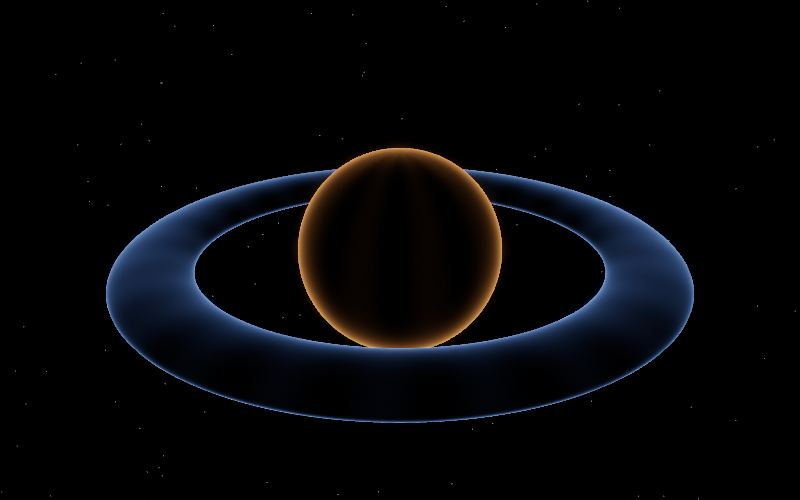
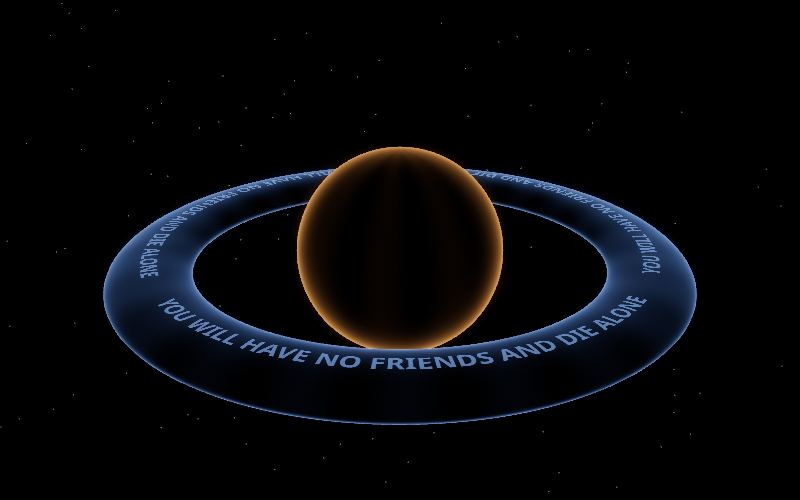
Dark Saturn: the ring says YOU WILL HAVE NO FRIENDS AND DIE ALONE
Text drawn on a canvas texture, painted round the ring's top and bottom faces by its shader,
carried round at the ring's angular velocity; strip width follows the tube so letters keep shape.

diff --git a/src/sketches/darkSaturn.js b/src/sketches/darkSaturn.js
@@ -53,6 +53,7 @@ const KEYS = [
   { k: [0.9, 0.5, 0.39121], name: 'C', line: 'The hole spins backwards just enough to stand still. Exhausting.' },
   { k: [0.95, 0.7, 0.69], name: 'D', line: 'Hole spinning against the ring. Still in balance. Still dark.' },
 ];
+const RING_TEXT = 'YOU WILL HAVE NO FRIENDS AND DIE ALONE';   // what the ring says (owner's request, 2026-11-21)
 const MOVE = 4, HOLD = 8, LOOP = KEYS.length * (MOVE + HOLD);
 
 const HORIZON_VERT = /* glsl */ `
@@ -65,8 +66,9 @@ const HORIZON_VERT = /* glsl */ `
     gl_Position = projectionMatrix * mv;
   }`;
 const HORIZON_FRAG = /* glsl */ `
-  uniform float uTurn, uRing;
+  uniform float uTurn, uRing, uTextH;
   uniform vec3 uRim;
+  uniform sampler2D uText;
   varying vec3 vN, vView, vLocal;
   void main() {
     float f = pow(1.0 - abs(dot(normalize(vN), normalize(vView))), 5.0);   // only the very edge glows
@@ -75,6 +77,14 @@ const HORIZON_FRAG = /* glsl */ `
     float ang = (uRing > 0.5 ? atan(vLocal.y, vLocal.x) : atan(vLocal.z, vLocal.x)) + uTurn;
     float band = 0.5 + 0.5 * cos(ang * (uRing > 0.5 ? 24.0 : 10.0));
     vec3 col = uRim * (f * 1.5 + 0.05 * band * (0.3 + f)) + vec3(0.003);
+    // the ring's message, written round its top and bottom faces and carried round at the ring's own speed
+    if (uRing > 0.5) {
+      float tubeAng = atan(vLocal.z, length(vLocal.xy) - 1.0);          // where on the tube's cross-section
+      float across = abs(abs(tubeAng) - 1.5707963) * sign(length(vLocal.xy) - 1.0);
+      vec2 st = vec2(fract(-ang / 6.2831853), 0.5 - across / uTextH);
+      float ink = (st.y > 0.0 && st.y < 1.0) ? texture2D(uText, st).r : 0.0;
+      col += uRim * ink * 0.55;
+    }
     gl_FragColor = vec4(col, 1.0);
   }`;
 
@@ -123,9 +133,23 @@ export default {
     camera.position.set(0, 2.6, 6.2);
     ctx.controls?.target.set(0, 0, 0);
     ctx.controls?.update();
+    // the ring's message: a strip of text drawn once on a canvas, repeated three times round the ring
+    // see docs/wiki/textures.md and docs/wiki/sketches/darkSaturn.md
+    const cv = document.createElement('canvas');
+    cv.width = 4096; cv.height = 256;
+    const g = cv.getContext('2d');
+    g.fillStyle = '#000'; g.fillRect(0, 0, cv.width, cv.height);
+    g.fillStyle = '#fff'; g.font = 'bold 100px system-ui, sans-serif';
+    const fit = Math.min(1, (0.9 * cv.width / 3) / g.measureText(RING_TEXT).width);   // each copy fills 90% of its third
+    g.font = `bold ${Math.floor(100 * fit)}px system-ui, sans-serif`; g.textAlign = 'center'; g.textBaseline = 'middle';
+    for (let i = 0; i < 3; i++) g.fillText(RING_TEXT, (i + 0.5) * cv.width / 3, cv.height / 2);
+    const text = new THREE.CanvasTexture(cv);
+    text.minFilter = THREE.LinearFilter; text.generateMipmaps = false;   // no mipmaps: the wrap-round seam would show
+    text.colorSpace = THREE.NoColorSpace;
     const mat = (rim, ring) => new THREE.ShaderMaterial({
       vertexShader: HORIZON_VERT, fragmentShader: HORIZON_FRAG,
-      uniforms: { uTurn: { value: 0 }, uRing: { value: ring ? 1 : 0 }, uRim: { value: new THREE.Color(rim) } },
+      uniforms: { uTurn: { value: 0 }, uRing: { value: ring ? 1 : 0 }, uRim: { value: new THREE.Color(rim) },
+        uText: { value: text }, uTextH: { value: 2 } },
     });
     const hole = new THREE.Mesh(new THREE.SphereGeometry(1, 96, 64), mat(0xffb46a, false));
     const ring = new THREE.Mesh(new THREE.TorusGeometry(1, 0.2, 48, 220), mat(0x8fb8ff, true));
@@ -136,7 +160,7 @@ export default {
     for (let i = 0; i < n; i++) { v.randomDirection().multiplyScalar(60 + Math.random() * 40); pos.set([v.x, v.y, v.z], i * 3); }
     const sg = new THREE.BufferGeometry(); sg.setAttribute('position', new THREE.BufferAttribute(pos, 3));
     scene.add(new THREE.Points(sg, new THREE.PointsMaterial({ color: 0x9aa6c8, size: 0.12, sizeAttenuation: true })));
-    return { glow, hole, ring, turnBH: 0, turnBR: 0, player: createSoundPlayer({ volume: 0.35 }) };
+    return { glow, hole, ring, text, turnBH: 0, turnBR: 0, player: createSoundPlayer({ volume: 0.35 }) };
   },
 
   update(ctx, state) {
@@ -155,6 +179,8 @@ export default {
       state.tube = tube;
       state.ring.geometry.dispose();
       state.ring.geometry = new THREE.TorusGeometry(1, tube, 40, 200);
+      // keep the letters the same shape: the text strip spans this much of the tube's cross-section (radians)
+      state.ring.material.uniforms.uTextH.value = (2 * Math.PI / 3) * (256 / (4096 / 3)) / tube;
     }
     // turning: angular velocity in units of 1/√M, slowed so the eye can follow
     const dt = ctx.delta * (ctx.params.speed ?? 1);
@@ -171,6 +197,7 @@ export default {
 
   dispose(ctx, state) {
     state.player.dispose();
+    state.text.dispose();
     state.glow.dispose();
   },
 };

diff --git a/docs/wiki/sketches/darkSaturn.md b/docs/wiki/sketches/darkSaturn.md
@@ -9,7 +9,9 @@ tags: astronomy
 File: `src/sketches/darkSaturn.js` · Mode: 3d · Category: Physics
 
 **What you see:** a dark ball with a glowing orange edge, and around it a dark ring with a glowing blue edge,
-like Saturn drawn in black. Faint bands drift round both, each at its own speed. Every 12 seconds the pair
+like Saturn drawn in black. Written round the ring's top, three times over, glowing faintly blue: "YOU WILL
+HAVE NO FRIENDS AND DIE ALONE" (a joke the owner asked for; the physics doesn't say this). Faint bands drift
+round both, each at its own speed, and the words ride round with the ring. Every 12 seconds the pair
 slides into a different shape: the ring fat or thin, the ball bigger or smaller, the ball's bands drifting
 with the ring, standing still, or going backwards. You can drag to look around. With Sound on, two tones hum,
 one for the ball and one for the ring.
@@ -54,6 +56,9 @@ five-dimensional black hole comes out with the paper's reference area, 2√2.
 - **The picture is a 3D slice and not to exact scale.** A five-dimensional shape can't be drawn exactly. The
   ball's size comes from its area (A = 2π²r³ for a 3-sphere); the ring's radius from the thin-ring estimate R
   ≈ 1/(√2 Ω); its thickness from its area (A ≈ 2πR × 4πr²).
+- The ring's words are drawn once onto a hidden canvas (a blank picture in the page's memory), turned into a
+  [*texture*](../textures.md) (a picture the graphics card can paint onto a surface), and the ring's shader paints it round the
+  ring's top and bottom faces.
 - The horizons are drawn by a [shader](../shaders.md): dark, with a glow where you look along the surface
   edge-on, and bands drifting at each horizon's angular velocity. [Glow](../glow.md) adds the halo.
 
@@ -91,6 +96,28 @@ const OBH = d * s((k2 * k3) / (2 * k1)) * (k3 * (1 - k1) - k1 * (1 - k2) * (1 - 
 Equation 3.21. With c̄₂ = 0 the hole has no spin of its own (`JBH` is 0), but this is not zero: frame
 dragging.
 
+The ring's message, near the top of the file:
+
+```js
+const RING_TEXT = 'YOU WILL HAVE NO FRIENDS AND DIE ALONE';   // what the ring says (owner's request, 2026-11-21)
+```
+
+In `setup`, the words are written three times across a canvas 4,096 dots wide and 256 tall, each copy shrunk
+to fill 90% of its third:
+
+```js
+const fit = Math.min(1, (0.9 * cv.width / 3) / g.measureText(RING_TEXT).width);   // each copy fills 90% of its third
+```
+
+`measureText` asks how wide the words come out at 100-dot letters; `fit` is how much to shrink them so one copy
+fits. In the shader, where on the ring a point sits (its angle round the ring) picks the spot along the
+canvas, and how far it is from the middle of the ring's top face picks the spot up and down. When the ring gets
+thinner, `update` widens that strip so the letters keep their shape:
+
+```js
+state.ring.material.uniforms.uTextH.value = (2 * Math.PI / 3) * (256 / (4096 / 3)) / tube;
+```
+
 The sound:
 
 ```js
@@ -115,6 +142,11 @@ From the exact formulas (reduced units):
 - **Saturn C:** a hole with spin of its own (−4.5% of the total), held motionless because the ring drags space
   the other way just as fast.
 
+**Try this:** in `darkSaturn.js`, change `const RING_TEXT = 'YOU WILL HAVE NO FRIENDS AND DIE ALONE';` to
+`const RING_TEXT = 'NOTHING ESCAPES';` and press Run. The ring says your words instead. Shorter words are not
+stretched to fill the gap: `fit` only ever shrinks text (it is capped at 1), so they come out at full size
+with more dark space between the three copies.
+
 **Try this (funky):** open Params and set **speed** to 0 while the caption says "Hole spinning against the
 ring" (saturn D): the bands freeze, and the numbers stay on the counter-rotating saturn. Then drag the view to
 look along the ring's plane: from edge-on, the ring shrinks to a thin line, but it is still a whole black
@@ -123,4 +155,5 @@ hole.
 **Words on this page:** [black ring](../glossary.md#black-ring), [black Saturn](../glossary.md#black-saturn),
 [event horizon](../glossary.md#event-horizon), [frame dragging](../glossary.md#frame-dragging), [extra
 dimensions](../glossary.md#extra-dimensions), [Smarr relation](../glossary.md#smarr-relation),
-[sonification](../glossary.md#sonification), [shader](../glossary.md#shader)
+[sonification](../glossary.md#sonification), [shader](../glossary.md#shader),
+[texture](../glossary.md#texture)

diff --git a/docs/wiki/sketch-sound.md b/docs/wiki/sketch-sound.md
@@ -34,7 +34,7 @@ sound: 'live',
 In `setup`, it makes a player:
 
 ```js
-return { glow, hole, ring, turnBH: 0, turnBR: 0, player: createSoundPlayer({ volume: 0.35 }) };
+return { glow, hole, ring, text, turnBH: 0, turnBR: 0, player: createSoundPlayer({ volume: 0.35 }) };
 ```
 
 Every frame, it says what should be playing. Either a looped strip of samples (from
